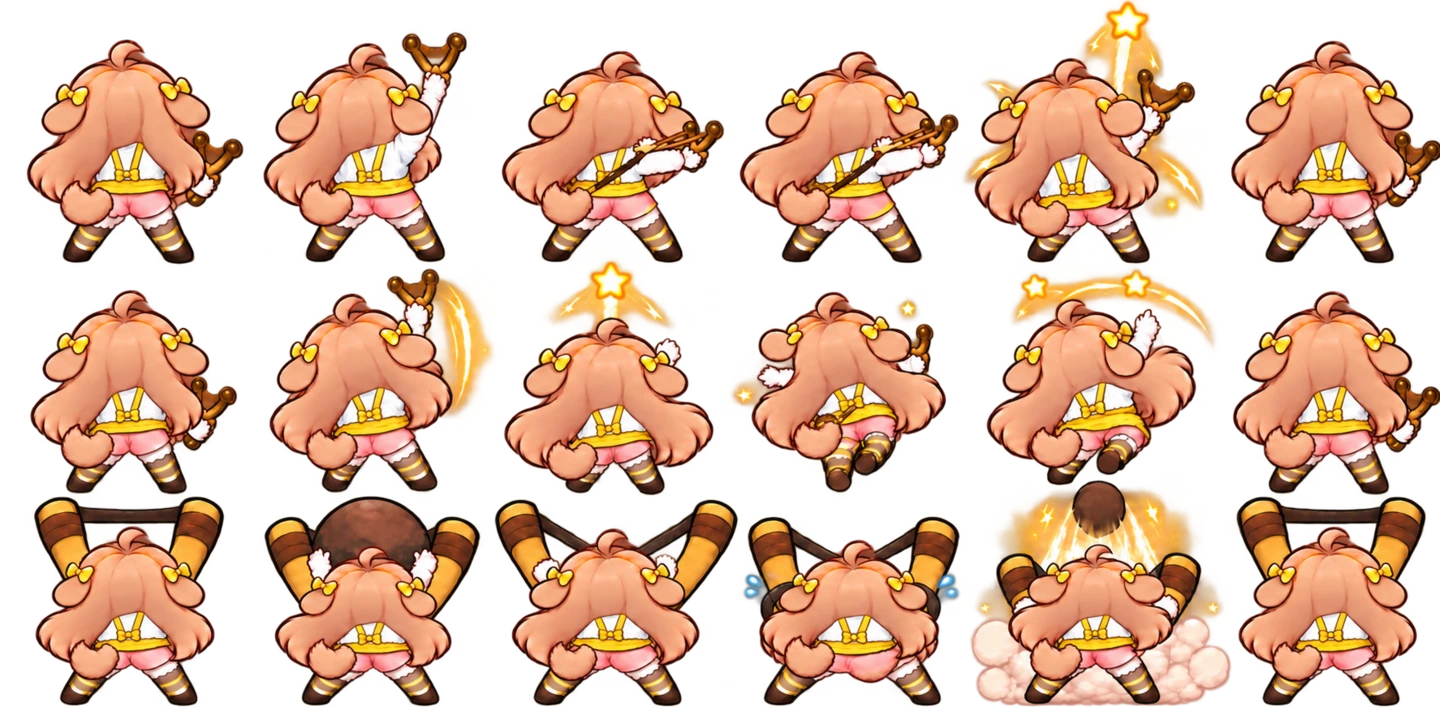
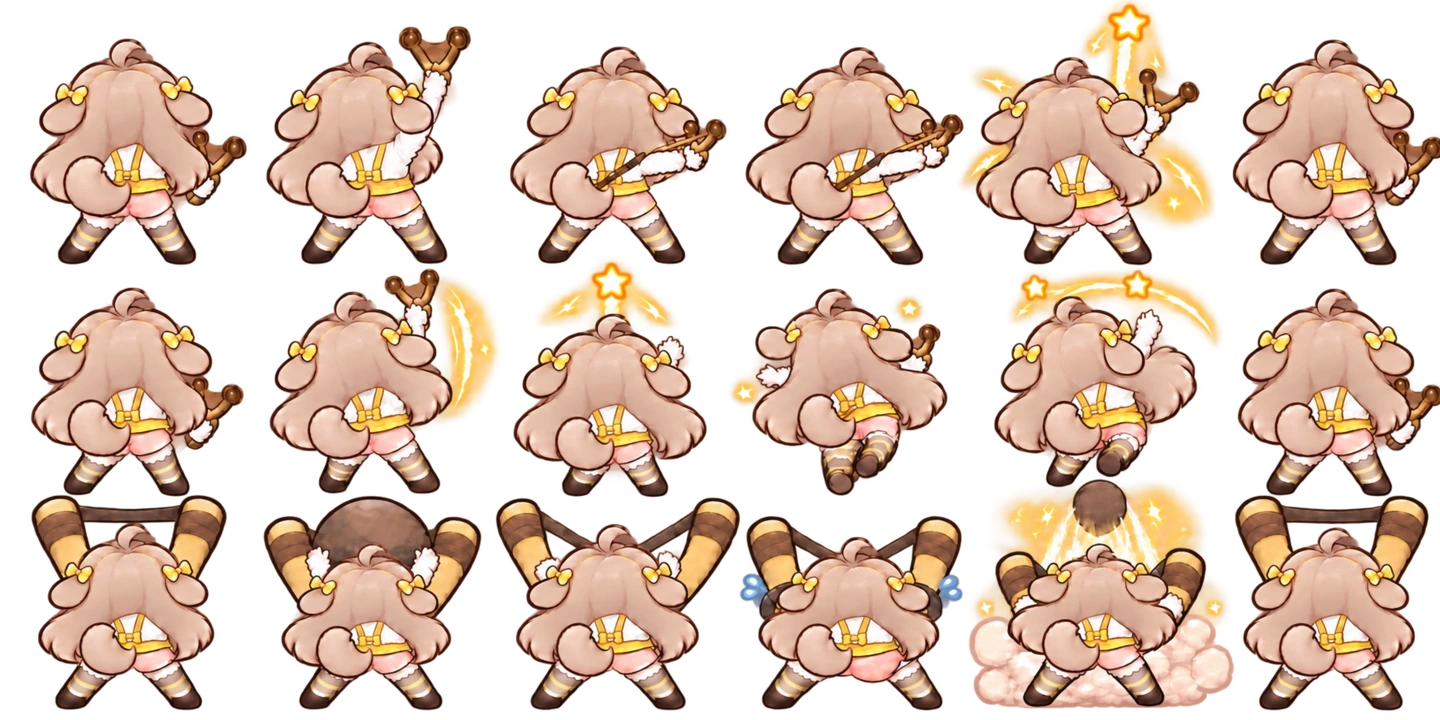
Refine Butter rear sprite anatomy and palette

diff --git a/index.html b/index.html
@@ -5,14 +5,14 @@
     <meta name="viewport" content="width=device-width, initial-scale=1, viewport-fit=cover, maximum-scale=1, user-scalable=no" />
     <meta name="theme-color" content="#f6c760" />
     <meta name="description" content="셰이디의 뒤틀린 아공간에서 탈출하는 방 탐험 액션 로그라이트" />
-    <link rel="manifest" href="./manifest.webmanifest?v=19" />
-    <link rel="icon" href="./icon.svg?v=19" type="image/svg+xml" />
-    <link rel="preload" href="./assets/trickcal-heroes.webp?v=19" as="image" type="image/webp" />
-    <link rel="preload" href="./assets/butter-actions.webp?v=19" as="image" type="image/webp" />
-    <link rel="preload" href="./assets/butter-actions-down.webp?v=19" as="image" type="image/webp" />
-    <link rel="preload" href="./assets/butter-actions-up.webp?v=19" as="image" type="image/webp" />
-    <link rel="preload" href="./assets/ui-icons.svg?v=19" as="image" type="image/svg+xml" />
-    <link rel="stylesheet" href="./styles.css?v=19" />
+    <link rel="manifest" href="./manifest.webmanifest?v=20" />
+    <link rel="icon" href="./icon.svg?v=20" type="image/svg+xml" />
+    <link rel="preload" href="./assets/trickcal-heroes.webp?v=20" as="image" type="image/webp" />
+    <link rel="preload" href="./assets/butter-actions.webp?v=20" as="image" type="image/webp" />
+    <link rel="preload" href="./assets/butter-actions-down.webp?v=20" as="image" type="image/webp" />
+    <link rel="preload" href="./assets/butter-actions-up.webp?v=20" as="image" type="image/webp" />
+    <link rel="preload" href="./assets/ui-icons.svg?v=20" as="image" type="image/svg+xml" />
+    <link rel="stylesheet" href="./styles.css?v=20" />
     <title>셰이디의 아공간 탈출</title>
   </head>
   <body>
@@ -45,8 +45,8 @@
         <div class="item-strip" id="item-strip" aria-label="보유 아이템"></div>
         <aside class="minimap" id="minimap" aria-label="아공간 지도"></aside>
         <div class="resource-bar" aria-label="소지품">
-          <span title="열쇠"><svg class="ui-icon"><use href="./assets/ui-icons.svg?v=19#key"></use></svg><b id="key-count">1</b></span>
-          <span title="폭탄"><svg class="ui-icon"><use href="./assets/ui-icons.svg?v=19#bomb"></use></svg><b id="bomb-count">1</b></span>
+          <span title="열쇠"><svg class="ui-icon"><use href="./assets/ui-icons.svg?v=20#key"></use></svg><b id="key-count">1</b></span>
+          <span title="폭탄"><svg class="ui-icon"><use href="./assets/ui-icons.svg?v=20#bomb"></use></svg><b id="bomb-count">1</b></span>
         </div>
         <button class="pause-button" id="pause-button" aria-label="일시 정지">Ⅱ</button>
         <div class="toast" id="toast" role="status" aria-live="polite"></div>
@@ -62,17 +62,17 @@
 
         <div class="ability-buttons">
           <button class="ability bomb-ability" id="bomb-button">
-            <span><svg class="ui-icon"><use href="./assets/ui-icons.svg?v=19#bomb"></use></svg></span>
+            <span><svg class="ui-icon"><use href="./assets/ui-icons.svg?v=20#bomb"></use></svg></span>
             <b>폭탄</b>
             <small id="bomb-label">R · 1</small>
           </button>
           <button class="ability lower-ability" id="lower-ability">
-            <span id="lower-icon"><svg class="ui-icon"><use href="./assets/ui-icons.svg?v=19#slingshot"></use></svg></span>
+            <span id="lower-icon"><svg class="ui-icon"><use href="./assets/ui-icons.svg?v=20#slingshot"></use></svg></span>
             <b id="lower-name">말썽 유도탄</b>
             <small id="lower-cooldown">패시브</small>
           </button>
           <button class="ability upper-ability" id="upper-ability">
-            <span id="upper-icon"><svg class="ui-icon"><use href="./assets/ui-icons.svg?v=19#attack"></use></svg></span>
+            <span id="upper-icon"><svg class="ui-icon"><use href="./assets/ui-icons.svg?v=20#attack"></use></svg></span>
             <b id="upper-name">왕새총 짱돌</b>
             <small id="upper-cooldown">READY</small>
           </button>
@@ -142,6 +142,6 @@
         caches.keys().then((keys) => Promise.all(keys.map((key) => caches.delete(key)))).catch(() => {});
       }
     </script>
-    <script type="module" src="./app.js?v=19"></script>
+    <script type="module" src="./app.js?v=20"></script>
   </body>
 </html>

diff --git a/app.js b/app.js
@@ -14,7 +14,7 @@ import {
   revealSecretAt,
   rollItems,
   upperPower
-} from "./survivor-engine.js?v=19";
+} from "./survivor-engine.js?v=20";
 
 const LOGICAL = { width: 800, height: 1450 };
 const WALL = 58;
@@ -25,13 +25,13 @@ const canvas = document.querySelector("#game-canvas");
 const stage = document.querySelector("#game-stage");
 const ctx = canvas.getContext("2d");
 const $ = (selector) => document.querySelector(selector);
-const iconMarkup = (id) => "<svg class=\"ui-icon\" aria-hidden=\"true\"><use href=\"./assets/ui-icons.svg?v=19#" + id + "\"></use></svg>";
+const iconMarkup = (id) => "<svg class=\"ui-icon\" aria-hidden=\"true\"><use href=\"./assets/ui-icons.svg?v=20#" + id + "\"></use></svg>";
 
 const heroAtlas = new Image();
 let heroArtReady = false;
 heroAtlas.decoding = "async";
 heroAtlas.addEventListener("load", () => { heroArtReady = true; });
-heroAtlas.src = "./assets/trickcal-heroes.webp?v=19";
+heroAtlas.src = "./assets/trickcal-heroes.webp?v=20";
 
 const butterActionAtlases = {
   side: new Image(),
@@ -46,7 +46,7 @@ for (const [direction, filename] of [
 ]) {
   butterActionAtlases[direction].decoding = "async";
   butterActionAtlases[direction].addEventListener("load", () => { butterActionPartsLoaded += 1; });
-  butterActionAtlases[direction].src = "./assets/" + filename + "?v=19";
+  butterActionAtlases[direction].src = "./assets/" + filename + "?v=20";
 }
 
 const ENEMY_TYPES = {

diff --git a/styles.css b/styles.css
@@ -82,7 +82,7 @@ button:focus-visible {
   border: 3px solid #5d4139;
   border-radius: 17px;
   background-color: #fbd67b;
-  background-image: url("./assets/trickcal-heroes.webp?v=19");
+  background-image: url("./assets/trickcal-heroes.webp?v=20");
   background-repeat: no-repeat;
   background-position: 0 center;
   background-size: 200% 100%;
@@ -603,7 +603,7 @@ button:focus-visible {
   width: 100%;
   min-height: 137px;
   flex: 1;
-  background-image: url("./assets/trickcal-heroes.webp?v=19");
+  background-image: url("./assets/trickcal-heroes.webp?v=20");
   background-repeat: no-repeat;
   background-size: 200% 100%;
 }

diff --git a/docs/butter-animation-notes.md b/docs/butter-animation-notes.md
@@ -21,6 +21,6 @@
 
 각 시트는 6열 × 3행이다. 행은 평타, 저학년, 고학년 순서이며 각 동작은 준비, 장전, 최대 장력, 발사, 반동, 회수 단계로 구성된다.
 
-후면 시트는 원본 복장 구조가 작은 게임 화면에서도 읽히도록 흰 반팔 셔츠 등판과 소매, 그 위의 노란 멜빵·허리띠·리본, 아래의 분홍 반바지와 줄무늬 양말을 서로 다른 색면으로 분리했다. 꼬리는 모든 프레임에서 왼쪽 골반 옆의 같은 뿌리에 연결하고 다리 사이를 가리지 않도록 했다.
+후면 시트는 원본 복장 구조가 작은 게임 화면에서도 읽히도록 흰 반팔 셔츠 등판과 소매, 그 위의 노란 멜빵·허리띠·리본, 아래의 분홍 반바지와 줄무늬 양말을 서로 다른 색면으로 분리했다. 꼬리는 모든 프레임에서 허리 뒤 정중앙의 같은 뿌리에 연결한 뒤 옆으로 휘도록 하고, 다리 사이를 가리지 않게 했다. 머리와 꼬리는 공식 자료의 연한 회복숭아색 팔레트를 유지한다.
 
 탄환은 스프라이트의 발사 프레임에 도달했을 때 실제로 생성된다. 고학년 왕짱돌도 최대 장력 이후의 발사 프레임과 게임 판정이 동기화된다.
